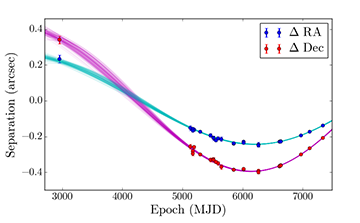
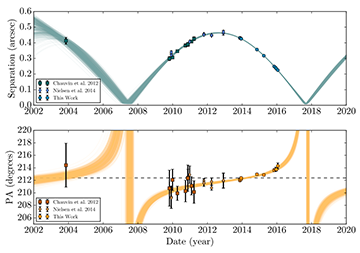
Many updates to website Updated/added publications Updated beta pic atrometry research summary Minor updates elsewhere

Changed region(s): [[0.0, 0.0269, 1.0, 0.9955], [0.7944, 0.3229, 0.825, 0.3767], [0.4278, 0.2422, 0.4583, 0.296]]

diff --git a/index.html b/index.html
@@ -6,13 +6,6 @@
 <meta name="author" content="Jason Wang" />
 <title>Jason Wang</title>
 	<link href="templatemo_style.css" type="text/css" rel="stylesheet" /> 
-	<!--<script type="text/javascript" src="js/jquery.min.js"></script> 
-	<script type="text/javascript" src="js/jquery.scrollTo-min.js"></script> 
-	<script type="text/javascript" src="js/jquery.localscroll-min.js"></script> 
-	<script type="text/javascript" src="js/init.js"></script>
-    
-    <link rel="stylesheet" href="css/slimbox2.css" type="text/css" media="screen" /> 
-    <script type="text/JavaScript" src="js/slimbox2.js"></script> -->
 
 </head> 
 <body> 
@@ -113,7 +106,7 @@
 						</div>
 					</div>
 					<div class="half right">
-						<p>I am a second-year astronomy graduate student at UC Berkeley. I grew up in Dublin, Ohio and got my B.A. in Physics with a Minor in Computer Science from Cornell University. </p>
+						<p>I am graduate student in astronomy at UC Berkeley. I grew up in Dublin, Ohio and got my B.A. in Physics with a Minor in Computer Science from Cornell University. </p>
 						<p class="no_mb">Outside of astronomy, I am also interseted in expanding education to those less privileged. I have been involved with the <a href="http://www.cornellcomputerreuse.org">Cornell Computer Reuse Association</a> to donate computers and expand computer literacy <a href="http://www.cornellcomputerreuse.org/?page_id=248">all around the world</a>. I also helped start the <a href="http://www.zcei.org">Zambia Community Education Initiative</a>, a not-for-profit that aims to improve education in Zambia. If you are interested in these organizations or something similar, contact me!</p>
 					</div>
 					<div class="half right h15"></div>
@@ -166,13 +159,16 @@
 					<h3>Improved Astrometry and Orbital Parameters of β Pictoris b</h3>
 					<div class="half left">
 						<div class="img_border img_fl overlay_lightgray">
-							<img src="images/betpic_orbit.png" alt="Transit??" title="Orbit of β Pic b" />	
+							<img src="images/betpic_orbit.png" srcset="images/betpic_orbit.png 1x, images/betpic_orbit2.png 3x" alt="Transit??" title="Orbit of β Pic b" />	
 						</div>
-                        <center><h4><a href="docs/posters/2016AAS_betapic_Poster.pdf">See my AAS Poster</a></h4></center>
+                        <center>
+							<h4>Read my <a href="https://arxiv.org/abs/1403.7195">AJ paper</a></h4>
+							<h4>or <a href="docs/posters/2016AAS_betapic_Poster.pdf">AAS Poster</a> (which <a href="https://aas.org/posts/news/2016/01/chambliss-student-poster-awards-aas-227">won a Chambliss medal!</a>)</h4>
+						</center>
 					</div>
 					<div class="half right">
-						<p>I am currently working on a new technique for more precise astrometry of directly imaged exoplanets. This technique is based off the mathematical framework developed by Pueyo (2016) which allows us to forward model the signature of an exoplanet through the data reduction process. It allows us to use artifacts of the data reduction process which we used to consider nuisances to better constrain the position of the planet.  In addition, I developed a Bayesian framework that properly accounts for the correlated nature of the noise in the data, allowing us to obtain the full posterior distribution of possible positions of an exoplanet.</p>
-                        <p>To validate this technique, I used this method on multi-epoch data of β Pictoris b taken with the Gemini Planet Imager. I showed in <a href="docs/posters/2016AAS_betapic_Poster.pdf">a poster</a> at the AAS 2016 Winter Meeting that I could fit a Keplerian orbit to my measured astrometry with well-behaved fit residuals. Our measured positions of β Pictoris b were a factor of 2-3 more precise than published values that used same data. We also were able to improve some of the orbital parameters by a factor of 2. Using this method, we showed the probability of the planet transiting the star was ruled out at 8σ confidence.</p>
+						<p>I developed a new technique for more precise astrometry of directly imaged exoplanets. This technique is based off the mathematical framework developed by Pueyo (2016) which allows us to forward model the signature of an exoplanet through the data reduction process. It allows us to use artifacts of the data reduction process which we used to consider nuisances to better constrain the position of the planet.  In addition, I developed a Bayesian framework that properly accounts for the correlated nature of the noise in the data with Gaussian process regression, allowing us to obtain an accruate posterior distribution on the location of an exoplanet.</p>
+                        <p>I applied this method on multi-epoch data of β Pictoris b taken with the Gemini Planet Imager. I publisehd <a href="https://arxiv.org/abs/1403.7195">a paper</a> showing that I could fit a Keplerian orbit to my measured astrometry with well-behaved fit residuals. Our measured positions of β Pictoris b were a factor of 2-4 more precise than previously published values that used same data. We also were able to improve some of the orbital parameters by a factor of 2. Using this method, we showed the probability of the planet transiting the star was ruled out at 10-σ confidence. However, the Hill sphere of the planet will transit the star, and we will be monitoring the star in 2017 with both the Hubble Space Telescope and ground based observatories to look for circumplanetary material such as disks, rings, and moons.</p>
 					</div>
 				</div></div>
                 
@@ -229,15 +225,20 @@
 					<li><b>Wang, J. J.</b>, Graham, J. R., Pueyo, L., et al. (2016) The Orbit and Transit Prospects for β Pictoris b constrained with One Milliarcsecond Astrometry. <a href="https://arxiv.org/abs/1607.05272">AJ, in press</a>.</li>
 					<li><b>Wang, J. J.</b>, Graham, J. R., Pueyo, L., et al. (2015) Gemini Planet Imager Observations of the AU Microscopii Debris Disk: Asymmetries within One Arcsecond. <a href="http://arxiv.org/abs/1508.04765">ApJL, 811, L19</a>.</li>
 					<li><b>Wang, J. J.</b>, Rajan, A., Graham, J. R., et al. (2014) Gemini Planet Imager Observational Calibrations VIII: Characterization and Role of Satellite Spots. <a href="http://arxiv.org/abs/1407.2308">Proc. SPIE, 9147, 55</a>.</li>
-					<h4>Co-author Publications (Major Contributions)</h4>
-					<li>Wolff, S. G., Perrin, M., Millar-Blanchaer, M. A., <b>et al.</b> (2016) The PDS 66 Circumstellar Disk as seen in Polarized Light with the Gemini Planet Imager. <a href="http://arxiv.org/abs/1601.07248">ApJL, 818, L15</a>.</li>
+					<h4>Co-author Publications (Selected)</h4>
+					<li>Konopacky, Q. M., Rameau J., Duchene, G., <b>et al.</b> (2016) Discovery of a Substellar Companion to the Nearby Debris Disk Host HR 2562. <a href="http://arxiv.org/abs/1608.06660">ApJL, in press</a>.</li>
+					<li>Perrin, M. D., Ingraham, P., Follette, K. B., <b>et al.</b> (2016) Gemini Planet Imager observational calibrations XI: pipeline improvements and enhanced calibrations after two years on sky. <a href="http://proceedings.spiedigitallibrary.org/proceeding.aspx?articleid=2544181">Proc. SPIE, 9908, 37</a>.</li> 
                     <li>Kalas, P. G., Rajan, A., <b> Wang, J. J.</b>, et al. (2015) Direct Imaging of an Asymmetric Debris Disk in the HD 106906 Planetary System. <a href="http://arxiv.org/abs/1510.02747">ApJ, 814, 32</a>.</li>
                     <li>De Rosa, R. J., Nielsen, E. L., Blunt, S. C., <b>et al.</b> (2015) Astrometric Confirmation and Preliminary Orbital Parameters of the Young Exoplanet 51 Eridani b with the Gemini Planet Imager. <a href="http://arxiv.org/abs/1509.07514">ApJL, 814, L3</a>.</li>          
 					<li>Millar-Blanchaer, M. A., Graham, J. R., Pueyo, L., <b>et al.</b> (2015) β Pictoris' inner disk in polarized light and new orbital parameters for β Pictoris b. <a href="http://arxiv.org/abs/1508.04787">ApJ, 811, 18</a>.</li>
 					<li>Macintosh, B., Graham, J. R., <b>et al.</b> (2015) Discovery and spectroscopy of the young Jovian planet 51 Eri b with the Gemini Planet Imager. <a href="http://arxiv.org/abs/1508.03084">Science, 350, 64</a>.</li>
-					<h4>Other Co-author Publications</h4>
-					<li>Rameau, J., Nielsen, E. L., De Rosa, R. J., <b>et al.</b> (2016) Constraints on the architecture of the HD 95086 planetary system with the Gemini Planet Imager. <a href="http://arxiv.org/abs/1604.05139">In press</a>.</li>
-					<li>De Rosa, R. J., Rameau, J., Patience, J., <b>et al.</b> (2016) Spectroscopic characterization of HD 95086 b with the Gemini Planet Imager. <a href="http://arxiv.org/abs/1604.01411">In press</a>.</li>
+					<h4>All Other Co-author Publications</h4>
+					<li>Bailey, V. P., Poyneer, L. A., Macintosh, B. A., <b>et al.</b> (2016) Status and performance of the Gemini Planet Imager adaptive optics system. <a href="http://proceedings.spiedigitallibrary.org/proceeding.aspx?articleid=2540731">Proc. SPIE, 9909, 0V</a>.</li>
+					<li>Millar-Blanchaer, M. A., Perrin M. D., Hung, L., <b>et al.</b> (2016) GPI observational calibrations XIV: polarimetric contrasts and new data reduction techniques. <a href="http://proceedings.spiedigitallibrary.org/proceeding.aspx?articleid=2544180">Proc. SPIE, 9908, 36</a>.</li>
+					<li>Hung, L., Bruzzone, S., Millar-Blanchaer, M. A., <b>et al.</b> (2016) Gemini planet imager observational calibration XII: photometric calibration in the polarimetry mode. <a href="http://proceedings.spiedigitallibrary.org/proceeding.aspx?articleid=2544184">Proc. SPIE, 9908, 3A</a>.</li>
+					<li>Rameau, J., Nielsen, E. L., De Rosa, R. J., <b>et al.</b> (2016) Constraints on the architecture of the HD 95086 planetary system with the Gemini Planet Imager. <a href="http://arxiv.org/abs/1604.05139">ApJL, 822, L29</a>.</li>
+					<li>De Rosa, R. J., Rameau, J., Patience, J., <b>et al.</b> (2016) Spectroscopic characterization of HD 95086 b with the Gemini Planet Imager. <a href="http://arxiv.org/abs/1604.01411">ApJ, 824, 121</a>.</li>
+					<li>Wolff, S. G., Perrin, M., Millar-Blanchaer, M. A., <b>et al.</b> (2016) The PDS 66 Circumstellar Disk as seen in Polarized Light with the Gemini Planet Imager. <a href="http://arxiv.org/abs/1601.07248">ApJL, 818, L15</a>.</li>
 					<li>Poyneer, L. A., Palmer, D. W., Macintosh, B., <b> et al.</b> (2016) Performance of the Gemini Planet Imager’s adaptive optics system. <a href="https://www.osapublishing.org/ao/abstract.cfm?uri=ao-55-2-323">Applied Optics, 55, 323</a>.</li>
 					<li>Hung, L., Duchêne, G., Arriaga, P., <b>et al.</b> (2015) First Scattered-light Image of the Debris Disk around HD 131835 with the Gemini Planet Imager. <a href="http://arxiv.org/abs/1511.06767">ApJL, 815, L14</a>.</li>
 					<li>Perrin, M. D., Duchene G., Millar-Blanchaer, M., <b>et al.</b> (2015) Polarimetry with the Gemini Planet Imager: Methods, Performance at First Light, and the Circumstellar Ring around HR 4796A. <a href="http://arxiv.org/abs/1407.2495">ApJ, 799, 182</a>.</li>
@@ -315,9 +316,9 @@
 			</h2>      
 			<div class="textbody">
 				<div class="overlay_border"><div class="overlay overlay_gray textblock">
-					<h3>Astronomy Utilities</h3>
+					<h3>Astronomy Software</h3>
 					<ul class="squarebullet">
-					<li><a href="https://bitbucket.org/pyKLIP/pyklip"><b>pyKLIP</b></a> - Python library to perform PSF subtraction following the <a href="http://arxiv.org/abs/1207.4197">KLIP algorithm</a> and foward modelling using <a href="http://arxiv.org/abs/1604.06097">KLIP-FM</a>. Supports GPI, P1640, and Keck/NIRC2 data. <a href="https://bitbucket.org/pyKLIP/pyklip">Bitbucket repo</a> and <a href="http://ascl.net/1506.001">ASCL Reference</a></li>
+					<li><a href="https://bitbucket.org/pyKLIP/pyklip"><b>pyKLIP</b></a> - Python library to perform PSF subtraction following the <a href="http://arxiv.org/abs/1207.4197">KLIP algorithm</a> and foward modelling using <a href="http://arxiv.org/abs/1604.06097">KLIP-FM</a>. Supports GPI, P1640, MagAO, and Keck/NIRC2 data. <a href="https://bitbucket.org/pyKLIP/pyklip">Bitbucket repo</a> and <a href="http://ascl.net/1506.001">ASCL Reference</a></li>
 					<li><b>GPIES Data Cruncher</b> - The automated data processing system for the GPI Exoplanet Survey. Creates PSF-subtracted data and contrast curves in real time and is ported to also run on a supercomputer to reprocess the entire survey's worth of data in a few hours. <a href="docs/posters/2015Lyot_DataCruncherPoster.pdf">Poster Overview</a></li>
 					<li><a href="http://docs.planetimager.org/pipeline/"><b>GPI Pipeline</b></a> - I am part of the team that is developing the tools to reduce and analyze data from the Gemini Planet Imager. <a href="http://docs.planetimager.org/pipeline/">Pipeline Documentation</a></li>
 					<li><a href="https://github.com/semaphoreP/nair"><b>nair</b></a> - Python script to calculate the index of refraction for air in the near infrared. <a href="https://github.com/semaphoreP/nair">Github page</a></li>
@@ -356,7 +357,7 @@
 <div id="templatemo_footer">
 	<a href="#home"><img src="images/home_button.png" alt="home"></a>
 	<br>
-    Copyright © 2015 Jason Wang | Built upon template from <a href="http://www.templatemo.com/preview/templatemo_363_metro" target="_blank">Free CSS Templates</a>
+    Copyright © 2016 Jason Wang | Built upon template from <a href="http://www.templatemo.com/preview/templatemo_363_metro" target="_blank">Free CSS Templates</a>
 </div>
 
 <script>
